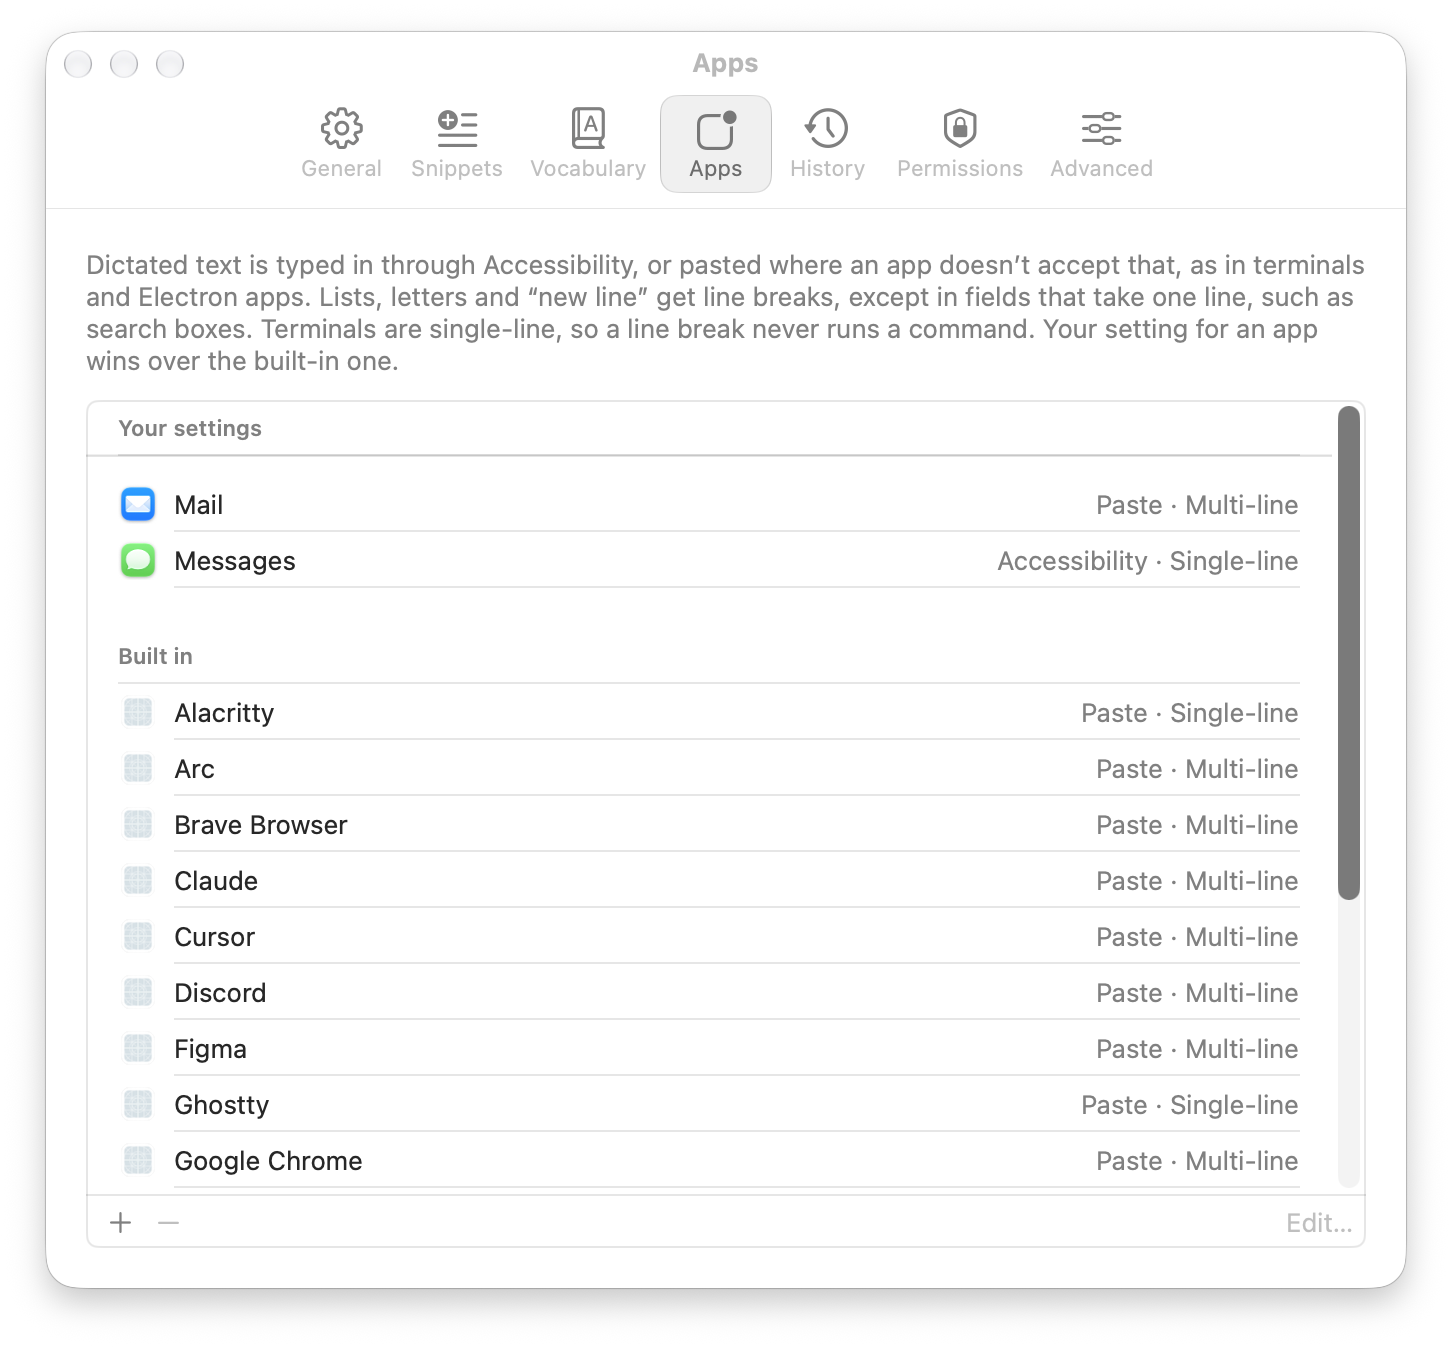
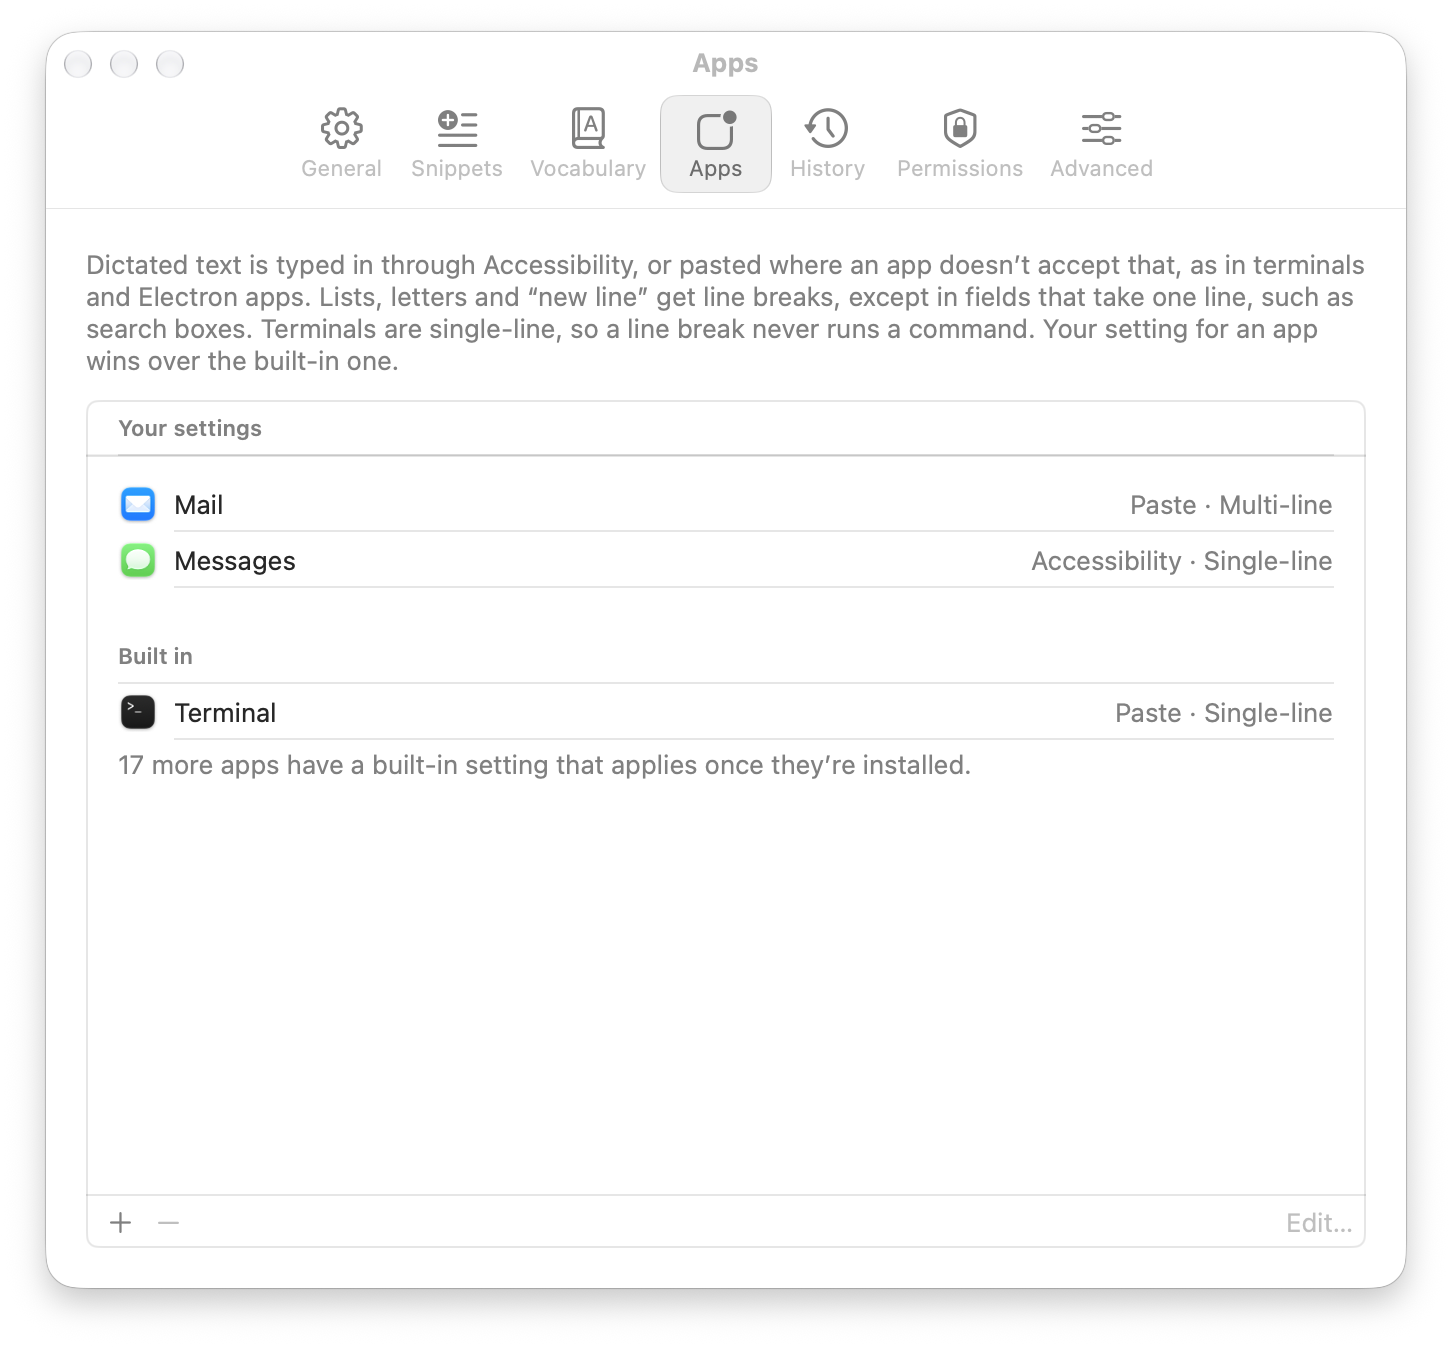
Show the shorter built-in list in the website's Apps screenshot

Changed region(s): [[0.6818, 0.3116, 0.9607, 0.8724], [0.062, 0.4985, 0.6818, 0.8724]]

diff --git a/site/index.html b/site/index.html
@@ -120,7 +120,7 @@
       </p>
       <figure>
         <img src="images/settings-apps.png" width="726" height="674" loading="lazy" decoding="async"
-             alt="Settings, Apps tab. Under Your settings, Mail is set to Paste with line breaks and Messages to Accessibility on a single line. Under Built in, terminals such as Alacritty and Ghostty paste on a single line, and Chromium and Electron apps such as Arc, Claude, Cursor, Discord and Google Chrome paste with line breaks.">
+             alt="Settings, Apps tab. Under Your settings, Mail is set to Paste with line breaks and Messages to Accessibility on a single line. Under Built in, Terminal pastes on a single line, and a note says 17 more apps have a built-in setting that applies once they’re installed.">
       </figure>
     </section>
 
